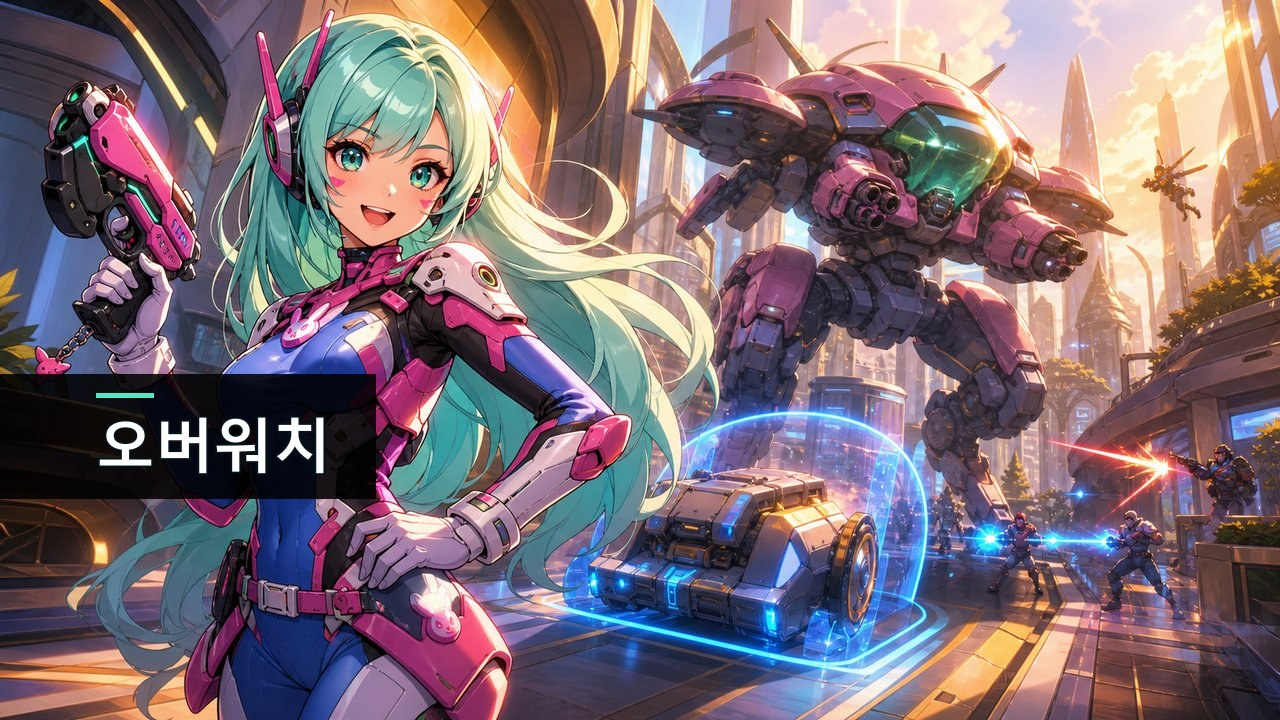
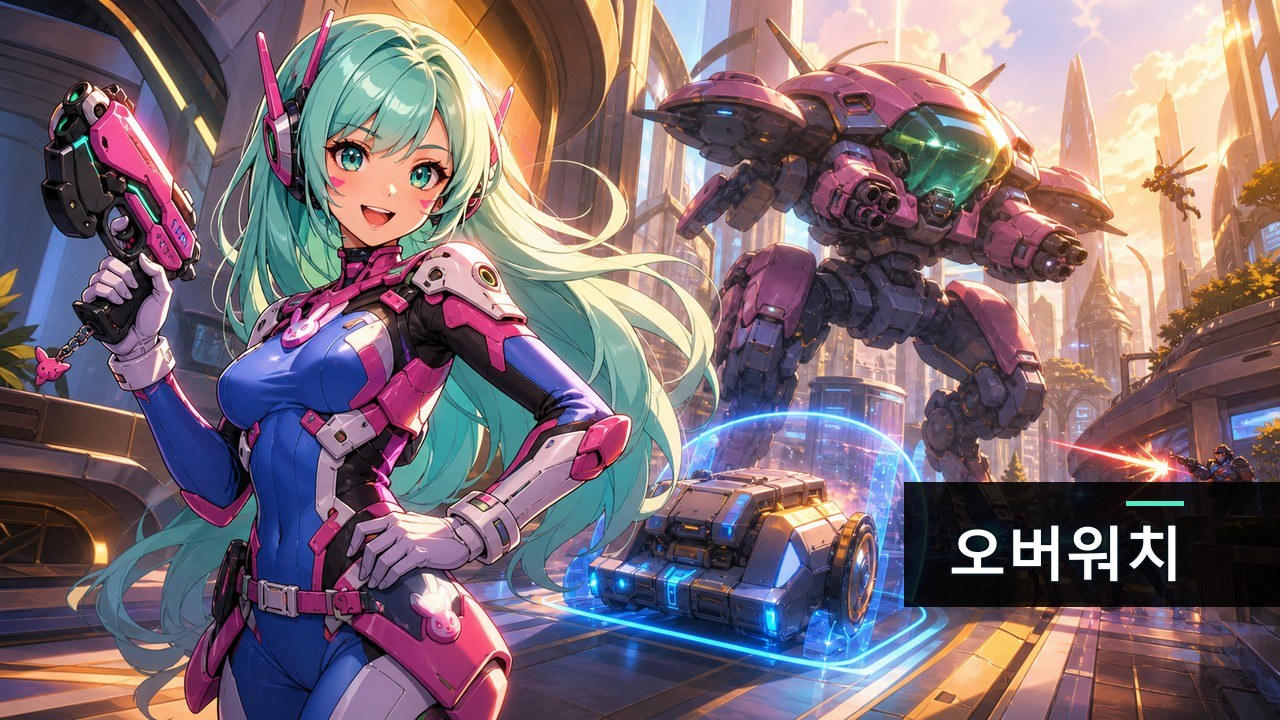
fix: 오버워치 제목 우하단 이동 + 주간결산 호스트 연령감 조정
오버워치 편 제목을 우하단으로 옮겼다. 제목이 이미 구워진 상태라 겹쳐 찍히지
않도록 .tmp/gen 에 남아 있던 codex 원본 PNG 에서 다시 얹었고, 앞으로 문구만
바꿀 수 있게 텍스트 없는 -cover.jpg 도 함께 저장했다.

주간결산 호스트가 나이 들어 보인다는 지적이 있어 gpt-image-2 로 다시 뽑았다.
어제 것은 얼굴이 길고 비즈니스 정장 차림에 표정이 가라앉아 성인처럼 읽혔다.
둥근 얼굴·얼굴 대비 큰 눈·작은 코와 턱·밝은 미소를 지정하고 정장을 금지해
후디로 바꿨다. 뉴스 데스크 컨셉과 오른쪽 여백은 그대로 유지했다.

Changed region(s): [[0.6875, 0.6417, 1.0, 0.8556], [0.0, 0.5194, 0.3125, 0.7028]]

diff --git a/src/videos/2026-08-31-bodycam.md b/src/videos/2026-08-31-bodycam.md
@@ -1,6 +1,6 @@
 ---
 title: "Bodycam — 얼굴만 모자이크, 나머진 실사"
-description: "프랑스 인디 개발사 Reissad Studio가 언리얼 엔진 5로 만든 1인칭 멀티플레이 FPS입니다. 실사에 가까운 그래픽과 사실적인 애니메이션으로 실제 바디캠 영상 같은 화면을 만들어내며, 2024년 6월 7일 얼리 액세스로 출시됐어요. 플레이어 얼굴만 픽셀로 가려지는 독특한 연출이 특징입니다."
+description: "프랑스 인디 개발사 Reissad Studio가 언리얼 엔진 5로 만든 1인칭 멀티플레이 FPS입니다. 실사에 가까운 그래픽과 사실적인 애니메이션으로 실제 바디캠 영상 같은 화면을 만들어내며, 2024년 6월 7일 얼리 액세스로 출시됐어요. 쓰러진 플레이어의 얼굴이 픽셀로 가려지는 독특한 연출이 특징입니다."
 pubDate: 2026-08-31
 category: "New"
 hook: "진짜 영상인 줄 알았던 그 화면"
@@ -72,6 +72,6 @@ scenes:
     chapter: "엔딩"
 ---
 
-프랑스 인디 개발사 Reissad Studio가 언리얼 엔진 5로 만든 1인칭 멀티플레이 FPS입니다. 실사에 가까운 그래픽과 사실적인 애니메이션으로 실제 바디캠 영상 같은 화면을 만들어내며, 2024년 6월 7일 얼리 액세스로 출시됐어요. 플레이어 얼굴만 픽셀로 가려지는 독특한 연출이 특징입니다.
+프랑스 인디 개발사 Reissad Studio가 언리얼 엔진 5로 만든 1인칭 멀티플레이 FPS입니다. 실사에 가까운 그래픽과 사실적인 애니메이션으로 실제 바디캠 영상 같은 화면을 만들어내며, 2024년 6월 7일 얼리 액세스로 출시됐어요. 쓰러진 플레이어의 얼굴이 픽셀로 가려지는 독특한 연출이 특징입니다.
 
 *(이미지는 각 게임사·기관의 공식 스크린샷·홍보 이미지만 사용했습니다.)*
